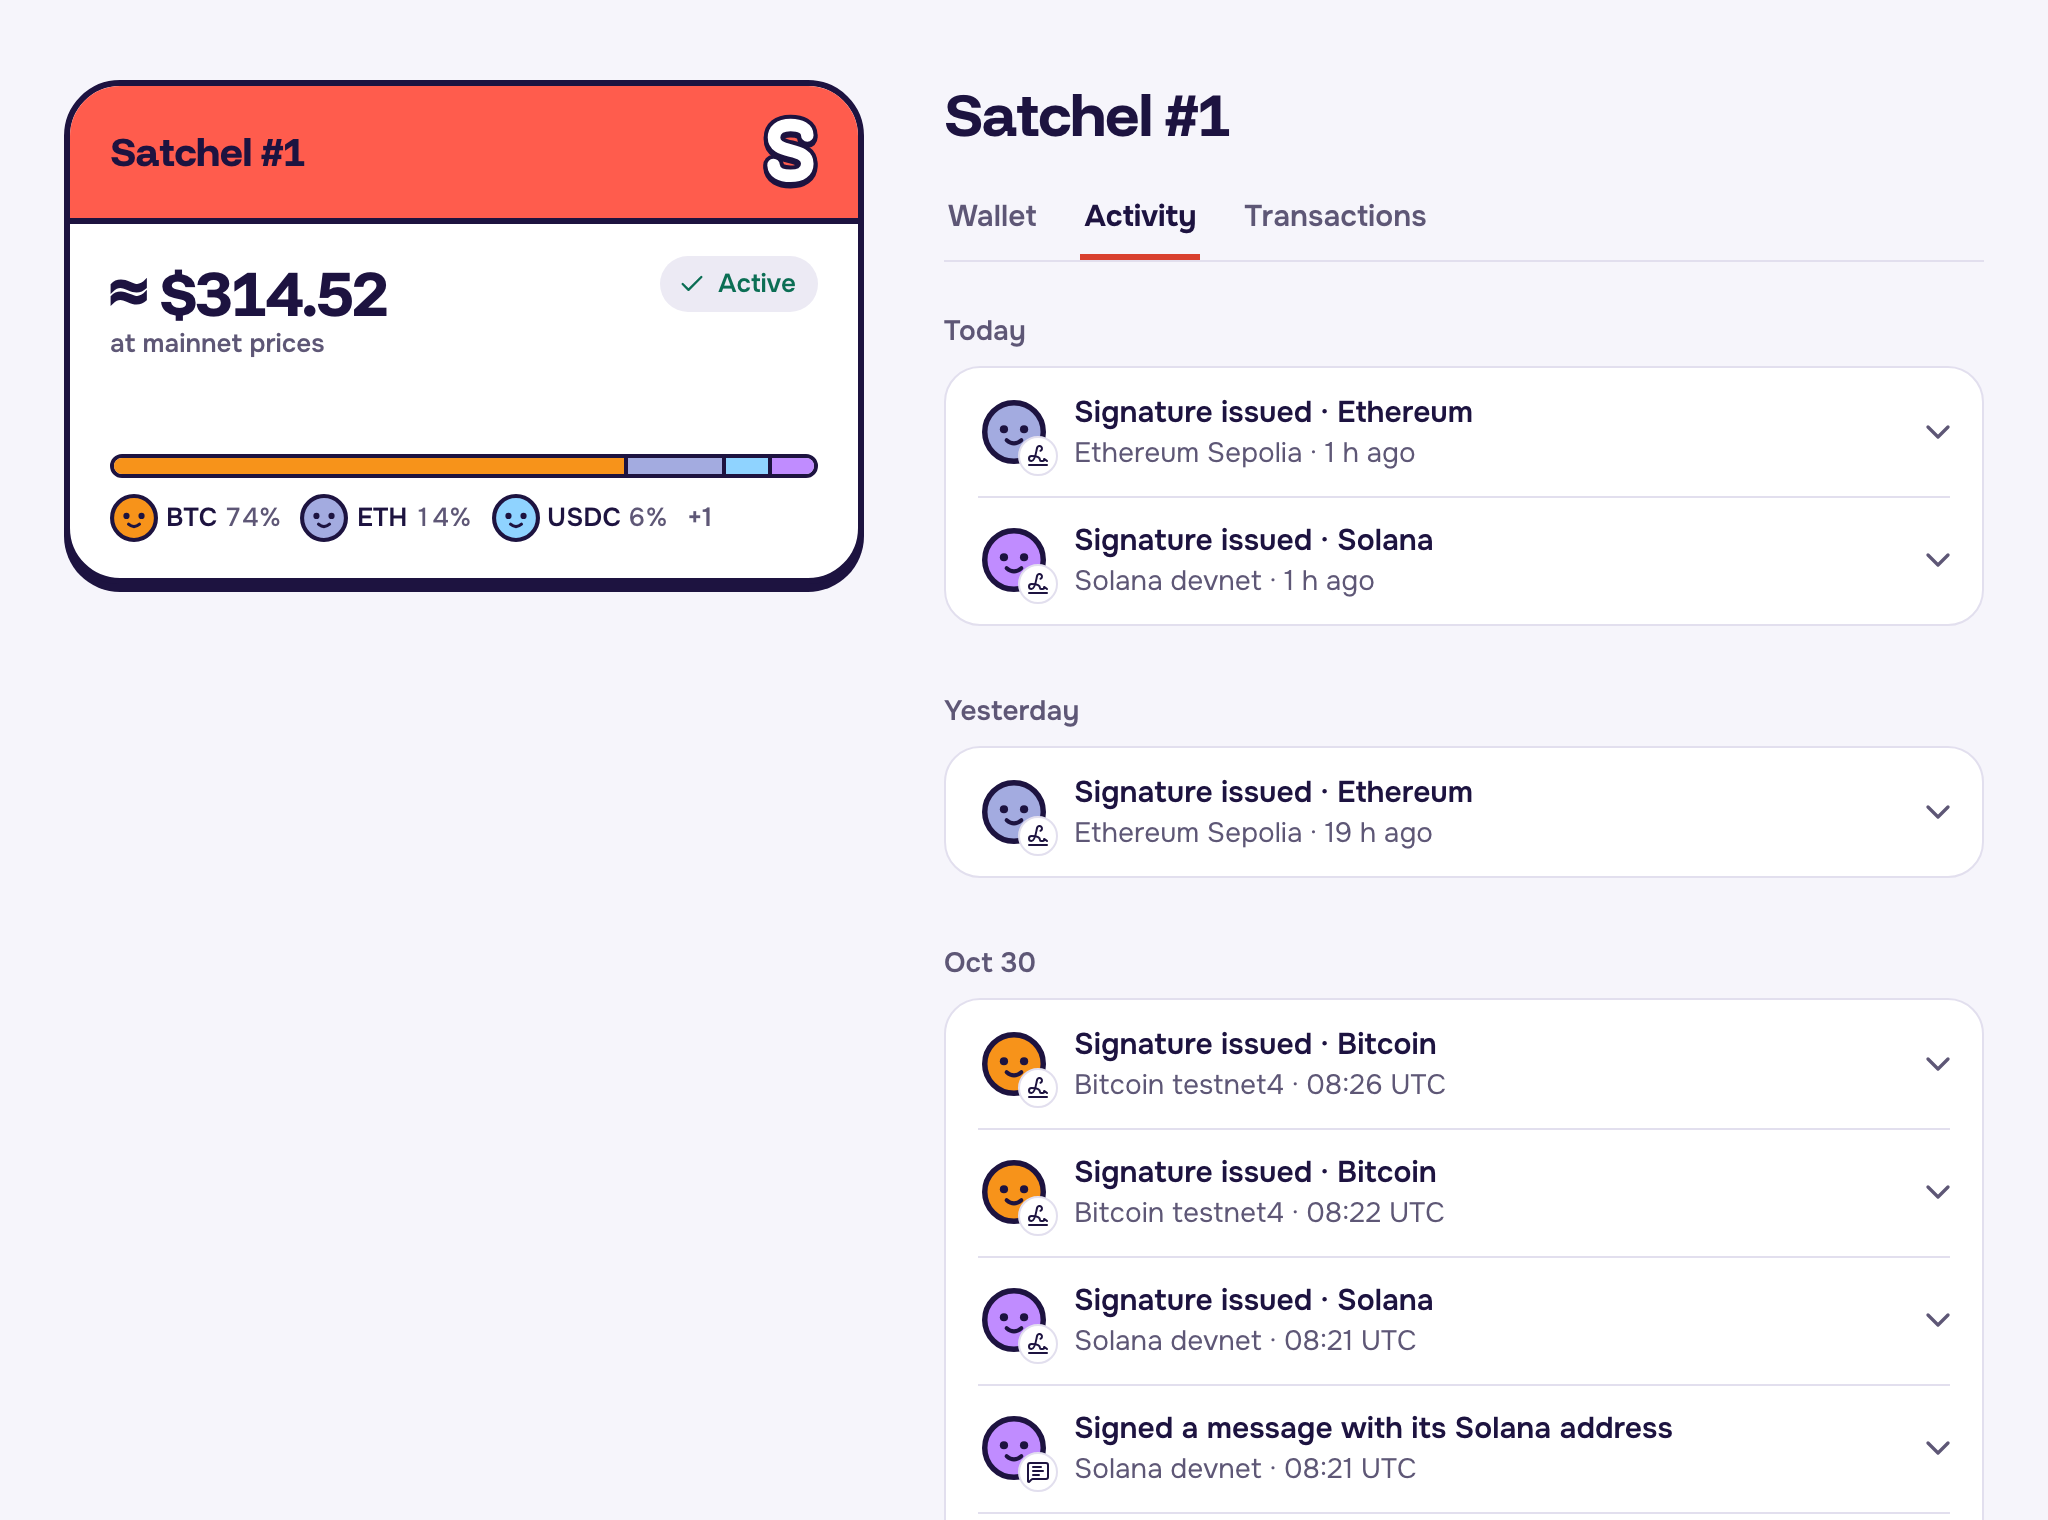
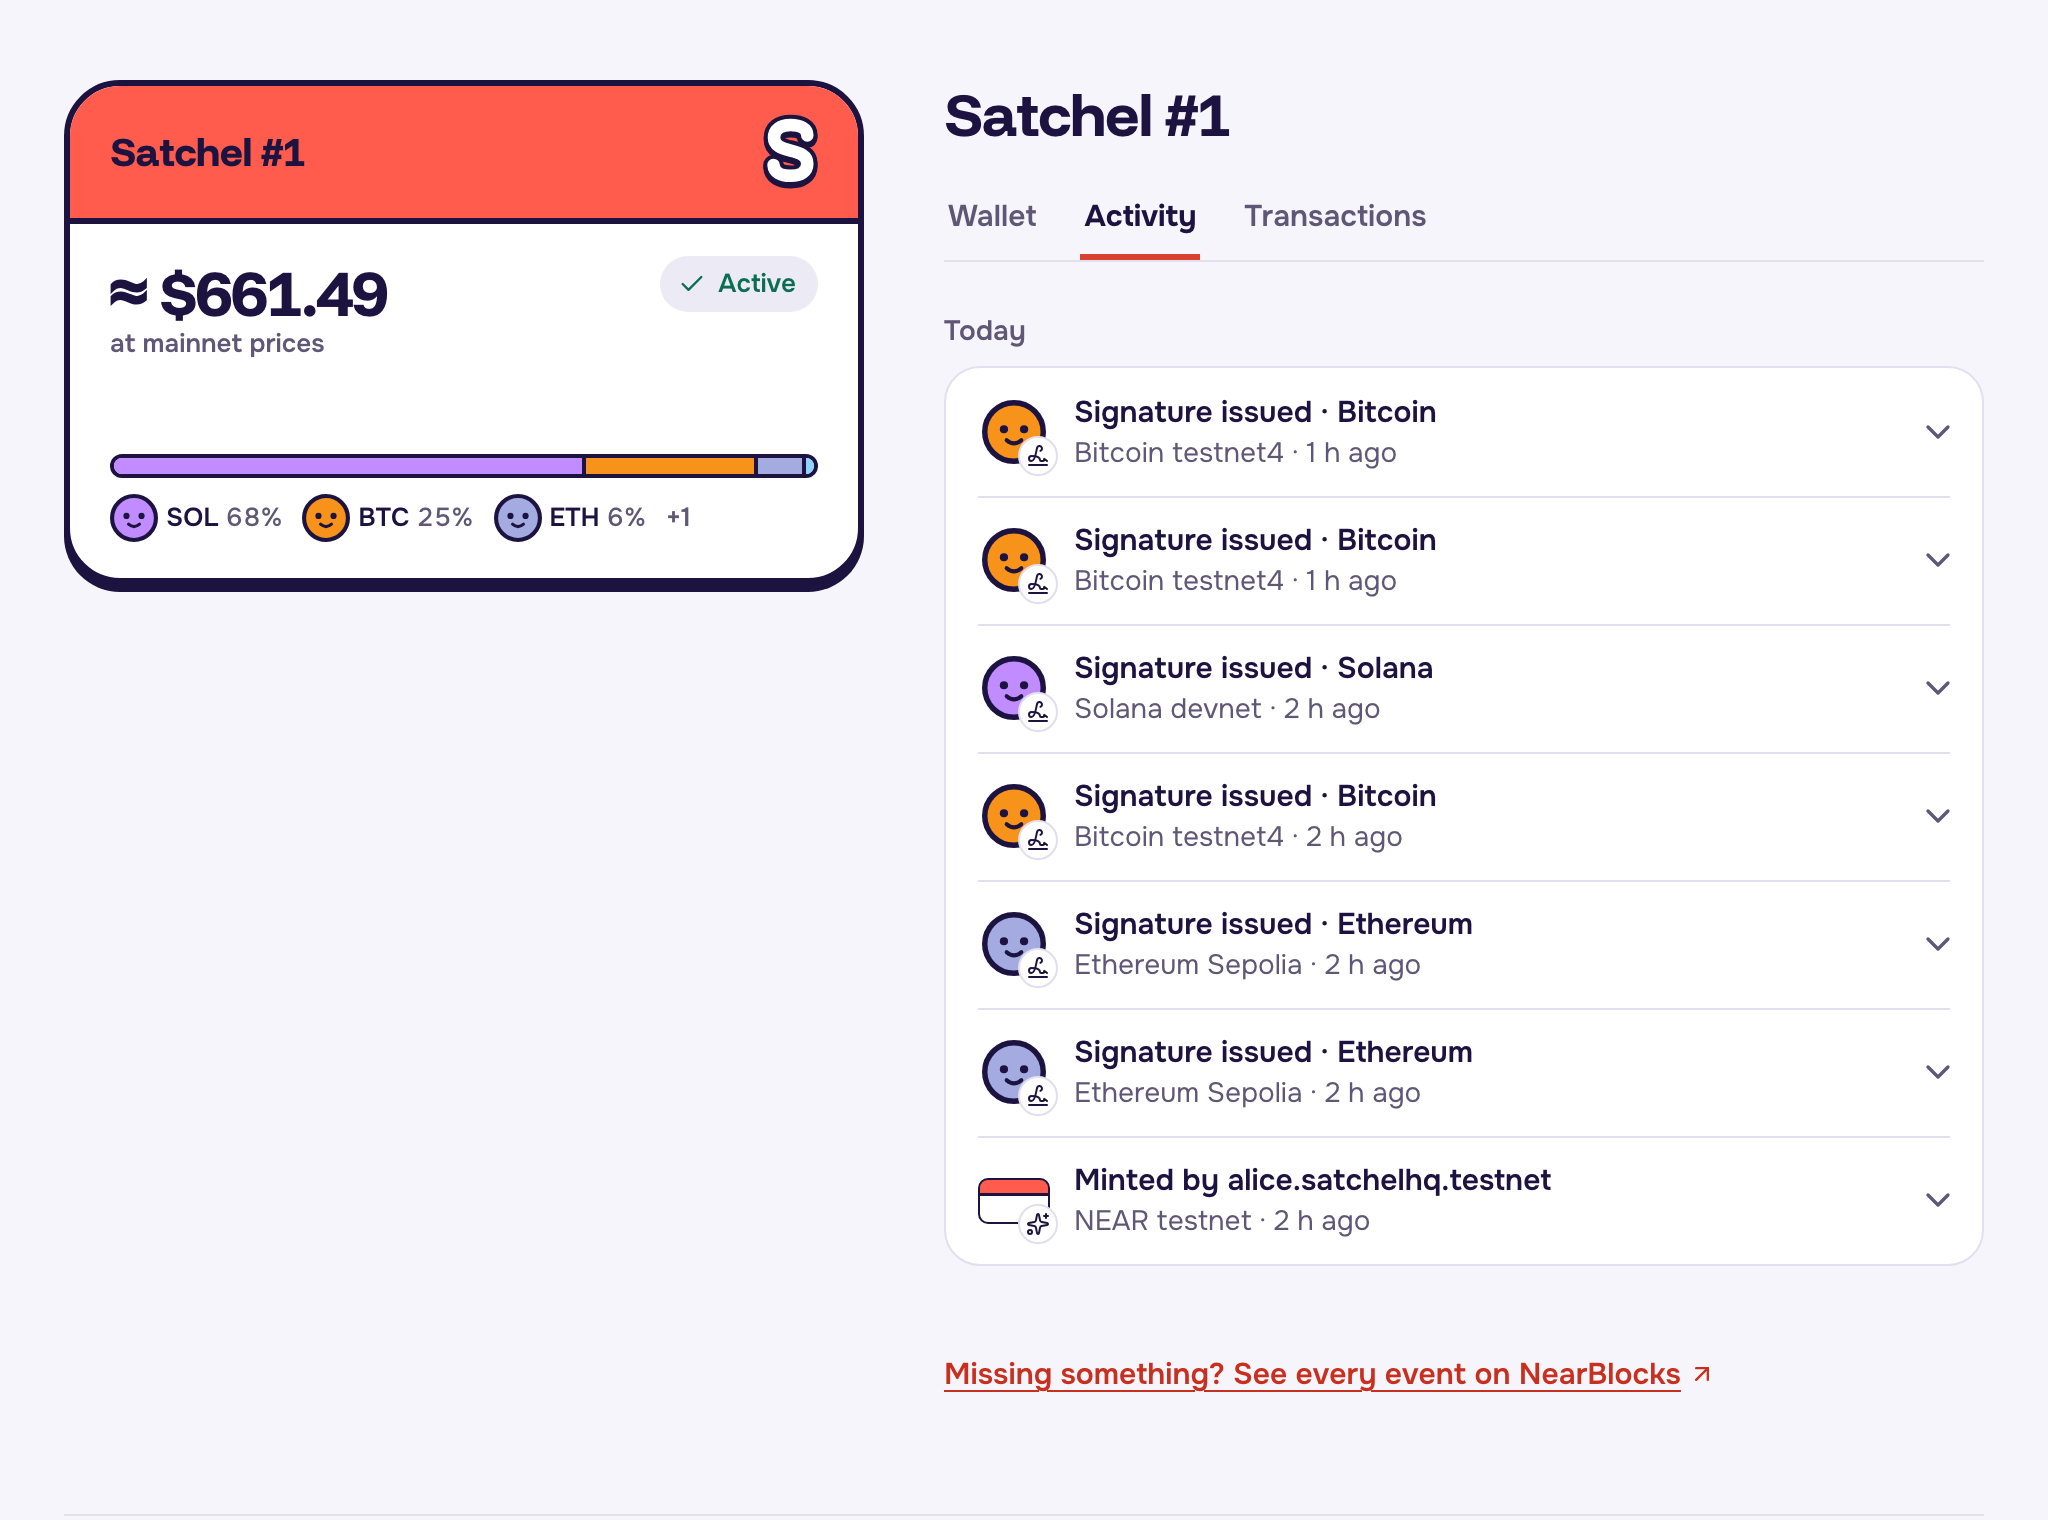
verify.md: the CI wasm hash changes per commit (NEP-330 snapshot), H is 843d353's run; activity.png from the final; F-04 done (sandbox on 2.14.0 with the deployed wasm)

diff --git a/plan/launch-checklist.md b/plan/launch-checklist.md
@@ -99,7 +99,7 @@
 | F-01 | **Claude** | Fill every `[TBD]` in `README.md`: H, birth tx, block A (the proof table, balances and CI link were dropped on 2026-11-05). Keep the README **Timeline** (Q-001) and **Libraries, tools and AI** (Q-005) | `grep -c "TBD" README.md` = 0, except fields you decide · **DONE 2026-11-10:** fill-final wrote H, the birth tx and block A (d8b27cb); `grep -c TBD README.md` = 0 |
 | F-02 | **You** | README "Team" section; approve the Timeline text (H-24, as reworded by D-47) | — |
 | F-03 | **Claude** | `tools/judge-snippets.sh` against the final (every README command prints its documented output); `tools/monitor.sh` green | all PASS · **DONE 2026-11-10:** snippets 11 pass · 0 fail · 0 skip · 2 info; monitor 0 fail (6aad847) |
-| F-04 | **Claude** | Full test pass on the release commit: contract unit + sandbox (**also with `SANDBOX_VERSION=2.14.0`**), core, tools, web unit + Playwright; CI green | recorded in the README |
+| F-04 | **Claude** | Full test pass on the release commit: contract unit + sandbox (**also with `SANDBOX_VERSION=2.14.0`**), core, tools, web unit + Playwright; CI green | recorded in the README · **DONE 2026-11-10:** CI run #143 on `cd88e09` green (contracts unit + sandbox on 2.13.4, reproducible, web); sandbox suite on nearcore 2.14.0 against the deployed wasm (H) all pass; core, tools and web suites in the F-07 fresh clone |
 | F-05 | **Both** | If the UI changed after the video was cut, decide whether any shot needs a re-take (marketing/README has the render pipeline) | decided |
 | F-07 | **Claude** | **Act as a screening agent (Q-017):** run a fresh clone of the release commit in a clean worktree. Follow only the README (install, tests, reproducible build, the "Try it" and "Verify on-chain" steps) and fix anything that doesn't reproduce | a clean-clone run is green and matches the README's numbers · **DONE 2026-11-10:** fresh clone of 6aad847: install, contract unit, core, tools and web suites, snippets, proofs, the README "Try it" table and verify.md steps 1–5 and 7 all reproduce; three findings fixed (S13 skip count, #4 wording, development.md). Playwright, sandbox and Docker are covered by CI |
 | F-06 | **Claude** | Draft the X post text. HACKATHON.md (re-read 2026-11-05) requires "built at NEAR HACKATHON", **@NEARProtocol** and **#NEARHackathon** (optional @NearLegion, @NearBuilders) and the video or screenshots attached. Razvan has X Premium, so there is no 280-character limit. Its advice: open with the user problem in a line a stranger gets; show one complete moment (action → visible result), no intro or architecture slides; say concretely what NEAR enables (one NEAR contract signs native BTC/ETH/SOL; selling the NFT sells the wallet), not "powered by NEAR"; link the demo and the public repo and ask a real question | draft approved by you |

diff --git a/plan/progress/final-release-2026-11-10.md b/plan/progress/final-release-2026-11-10.md
@@ -61,9 +61,14 @@ in `docs/evidence/history/` and still verifies (8e3c188). No MPC timeouts.
   freshness.
 - No `[TBD]` and no pre-birth wording left in judge-facing files.
 
-## Left
+## After
 
 - F-07 fresh-clone rehearsal: done; three findings fixed (S13 skip count, #4 wording, development.md notes).
-- CI on the pushed commits: confirm green on GitHub (no `gh` CLI on this machine).
-- `FASTNEAR_API_KEY` in Vercel or the `.env.production` comment; the `security` track (H-02, by Nov 12); re-shoot
-  `docs/assets/readme/activity.png` (it shows dev2); repo public on Day 13 (needs a yes); submission (needs a yes).
+- CI: run #143 on `cd88e09` green (contracts, reproducible, web), confirmed by Razvan. Its reproducible hash differs
+  from H because the build writes its commit into the wasm (NEP-330 `source_code_snapshot`); docs/verify.md says so.
+- Sandbox suite on nearcore 2.14.0 (testnet's version) against the deployed wasm: all pass (F-04).
+- `docs/assets/readme/activity.png` re-shot from the live final (#1: BTC ×3, SOL, ETH ×2, mint); alt text updated.
+
+## Left
+
+- `FASTNEAR_API_KEY` in Vercel or the `.env.production` comment; the `security` track (H-02, by Nov 12); repo public on Day 13 (needs a yes); submission (needs a yes).

diff --git a/docs/verify.md b/docs/verify.md
@@ -94,7 +94,9 @@ shasum -a 256 target/near/satchel/satchel.wasm    # macOS
 ```
[1 lines of base64/hex data omitted]
 [`.github/workflows/ci.yml`](../.github/workflows/ci.yml) runs the same build on every push to `main`, prints the
-SHA-256 in its summary and keeps the wasm as an artifact. After the repo is public:
+SHA-256 in its summary and keeps the wasm as an artifact. The build writes the commit it came from into the wasm
+(NEP-330 `source_code_snapshot`, readable with `contract_source_metadata`), so the hash changes with every commit even
+when the contract code doesn't: H is the run for commit `843d353` (`contract-v1.0.0`). After the repo is public:
 `near contract verify deployed-at satchel.satchelhq.testnet network-config testnet-fastnear now` → "…are the same".
 
 **7. Contract constants and the MPC it depends on**

diff --git a/docs/assets/readme/README.md b/docs/assets/readme/README.md
@@ -10,7 +10,7 @@ by hand, so every screen matches the app at the commit it was made from.
 | `send.png` | The two steps of sending ETH: fill in, review | the app, sample data, as the owner |
 | `buy-check.png` | The Buy tab of a clean listing (#3) and of a blocked one (#4) | the app, sample data, as `carol.satchelhq.testnet` |
 | `market.png` | The market, with each listing's verdict | the app, sample data |
-| `activity.png` | Satchel #1's activity | **live** app (`https://usesatchel.xyz`, the development contract until Nov 10) |
+| `activity.png` | Satchel #1's activity | **live** app (`https://usesatchel.xyz`, the final contract `satchel.satchelhq.testnet`) |
 
 "Sample data" is the app's fixture mode, the offline dataset the e2e suite runs on. Those screens keep the app's own
 "Sample data: these pages don't read the chains live" strip. The contract page is not shown here: in fixture mode

diff --git a/docs/selling.md b/docs/selling.md
@@ -77,7 +77,7 @@ on each chain. The same history is on-chain: `sig_records` returns the signature
 view gives one hash over all of them.
 
 <p align="center">
-  <img src="assets/readme/activity.png" width="100%" alt="The Activity tab of Satchel #1 in the live app: a list of signatures issued on Ethereum Sepolia, Solana devnet and Bitcoin testnet4, and messages signed with its Solana and Ethereum addresses, grouped by day.">
+  <img src="assets/readme/activity.png" width="100%" alt="The Activity tab of Satchel #1 in the live app: signatures issued for Bitcoin testnet4, Solana devnet and Ethereum Sepolia, newest first, under the mint by alice.satchelhq.testnet.">
   <br><sub>Live: Satchel #1's activity on the development contract, every signature it has issued, read from the
   contract's events.</sub>
 </p>

diff --git a/README.md b/README.md
@@ -149,7 +149,7 @@ a claim link · sell it for NEAR or USDC · make or accept offers · let someone
 USDC and wNEAR inside it · empty it in one go · read its full history.
 
 <p align="center">
-  <img src="docs/assets/readme/activity.png" width="100%" alt="The Activity tab of Satchel #1 in the live app: signatures issued on Ethereum Sepolia, Solana devnet and Bitcoin testnet4, and messages signed with its Solana and Ethereum addresses, grouped by day.">
+  <img src="docs/assets/readme/activity.png" width="100%" alt="The Activity tab of Satchel #1 in the live app: signatures issued for Bitcoin testnet4, Solana devnet and Ethereum Sepolia, newest first, under the mint by alice.satchelhq.testnet.">
   <br><sub>Live: Satchel #1's history, every signature it has issued, read from the contract.</sub>
 </p>
 
